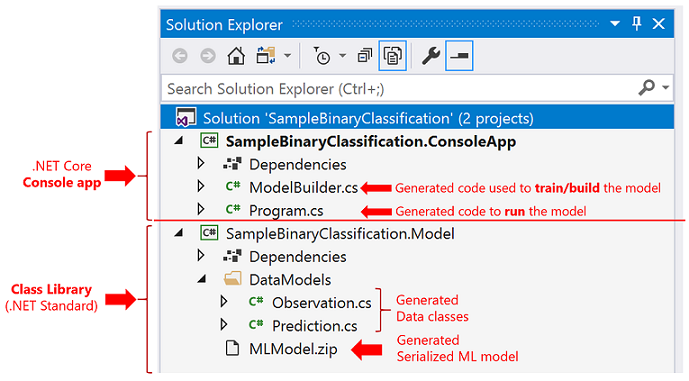
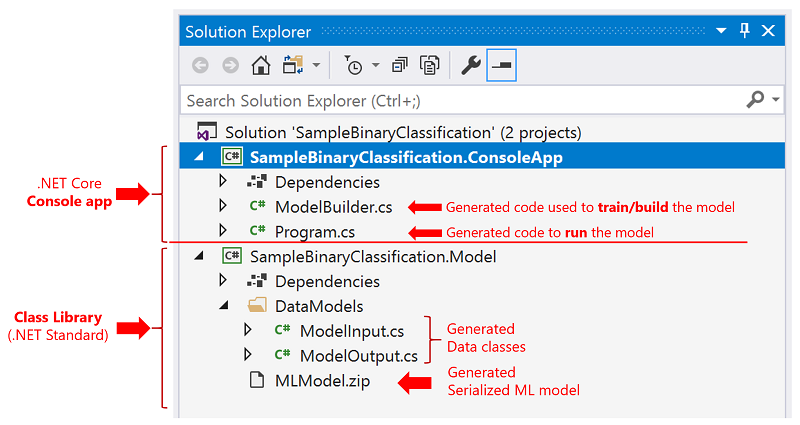
Updated/fixed CLI Tutorial aligned to last version (#12450)

Changed region(s): [[0.0, 0.0, 1.0, 0.9816]]

diff --git a/docs/machine-learning/tutorials/mlnet-cli.md b/docs/machine-learning/tutorials/mlnet-cli.md
@@ -138,12 +138,12 @@ Those enumerated assets are explained in the following steps of the tutorial.
 
     ![VS solution generated by the CLI](./media/mlnet-cli/generated-csharp-solution-detailed.png)
 
-    - The generated **class library** containing the serialized ML model and the data classes is something you can directly use in your end-user application, even by directly referencing that class library (or moving the code, as you prefer).
+    - The generated **class library** containing the serialized ML model (.zip file) and the data classes (data models) is something you can directly use in your end-user application, even by directly referencing that class library (or moving the code, as you prefer).
     - The generated **console app** contains execution code that you must review and then you usually reuse the 'scoring code' (code that runs the ML model to make predictions) by moving that simple code (just a few lines) to your end-user application where you want to make the predictions. 
 
-1. Open the **Observation.cs** and **Prediction.cs** class files within the class library project. You will see that these classes are 'data classes' or POCO classes used to hold data. It is 'boilerplate code' but useful to have it generated if your dataset has tens or even hundreds of columns. 
-    - The `SampleObservation` class is used when reading data from the dataset. 
-    - The `SamplePrediction` class or when
+1. Open the **ModelInput.cs** and **ModelOutput.cs** class files within the class library project. You will see that these classes are 'data classes' or POCO classes used to hold data. It is 'boilerplate code' but useful to have it generated if your dataset has tens or even hundreds of columns. 
+    - The `ModelInput` class is used when reading data from the dataset. 
+    - The `ModelOutput` class is used to get the prediction result (prediction data).
 
 1. Open the Program.cs file and explore the code. In just a few lines, you are able to run the model and make a sample prediction.
 
@@ -156,13 +156,13 @@ Those enumerated assets are explained in the following steps of the tutorial.
         //ModelBuilder.CreateModel();
 
         ITransformer mlModel = mlContext.Model.Load(MODEL_FILEPATH, out DataViewSchema inputSchema);
-        var predEngine = mlContext.Model.CreatePredictionEngine<SampleObservation, SamplePrediction>(mlModel);
+        var predEngine = mlContext.Model.CreatePredictionEngine<ModelInput, ModelOutput>(mlModel);
 
         // Create sample data to do a single prediction with it 
-        SampleObservation sampleData = CreateSingleDataSample(mlContext, DATA_FILEPATH);
+        ModelInput sampleData = CreateSingleDataSample(mlContext, DATA_FILEPATH);
 
         // Try a single prediction
-        SamplePrediction predictionResult = predEngine.Predict(sampleData);
+        ModelOutput predictionResult = predEngine.Predict(sampleData);
 
         Console.WriteLine($"Single Prediction --> Actual value: {sampleData.Label} | Predicted value: {predictionResult.Prediction}");
     }
@@ -174,14 +174,14 @@ Those enumerated assets are explained in the following steps of the tutorial.
 
 - In the third line of code, you load the model from the serialized model .ZIP file with the `mlContext.Model.Load()` API by providing the path to that model .ZIP file.
 
-- In the fourth line of code you load create the `PredictionEngine` object with the `mlContext.Model.CreatePredictionEngine<TObservation, TPrediction>()` API. You need the `PredictionEngine` object whenever you want to make a prediction targeting a single sample of data (In this case, a single piece of text to predict its sentiment).
+- In the fourth line of code you load create the `PredictionEngine` object with the `mlContext.Model.CreatePredictionEngine<TSrc,TDst>(ITransformer mlModel)` API. You need the `PredictionEngine` object whenever you want to make a prediction targeting a single sample of data (In this case, a single piece of text to predict its sentiment).
 
 - The fifth line of code is where you create that *single sample data* to be used for the prediction by calling the function `CreateSingleDataSample()`. Since the CLI tool doesn't know what kind of sample data to use, within that function it is loading the first row of the dataset. However, for this case you can also create you own 'hard-coded' data instead of the current implementation of the `CreateSingleDataSample()` function by updating this simpler code implementing that function:
 
     ```csharp
-    private static SampleObservation CreateSingleDataSample()
+    private static ModelInput CreateSingleDataSample()
     {
-        SampleObservation sampleForPrediction = new SampleObservation() { Col0 = "The ML.NET CLI is great for getting started. Very cool!", Label = true };
+        ModelInput sampleForPrediction = new ModelInput() { Col0 = "The ML.NET CLI is great for getting started. Very cool!", Label = true };
         return sampleForPrediction;
     }
     ```
@@ -215,7 +215,7 @@ Those enumerated assets are explained in the following steps of the tutorial.
 
 You can use similar 'ML model scoring code' to run the model in your end-user application and make predictions. 
 
-For instance, you could directly move that code to any Windows desktop application such as **WPP** and **WinForms** and run the model in the same way than it was done in the console app.
+For instance, you could directly move that code to any Windows desktop application such as **WPF** and **WinForms** and run the model in the same way than it was done in the console app.
 
 However, the way you implement those lines of code to run an ML model should be optimized (that is, cache the model .zip file and load it once) and have singleton objects instead of creating them on every request, especially if your application needs to be scalable such as a web application or distributed service, as explained in the following section.
 
